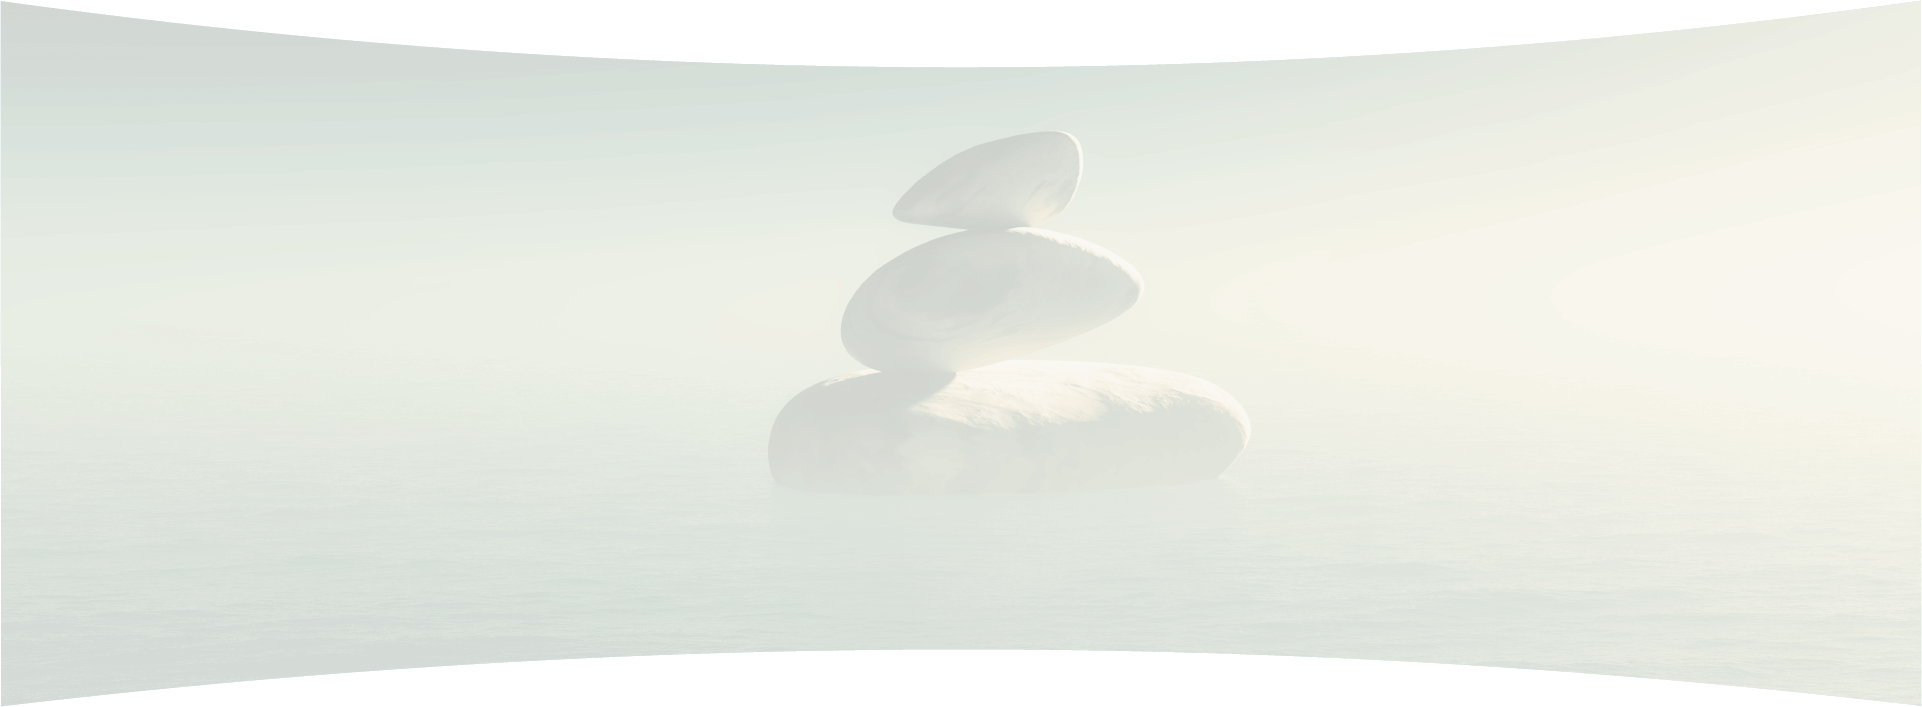
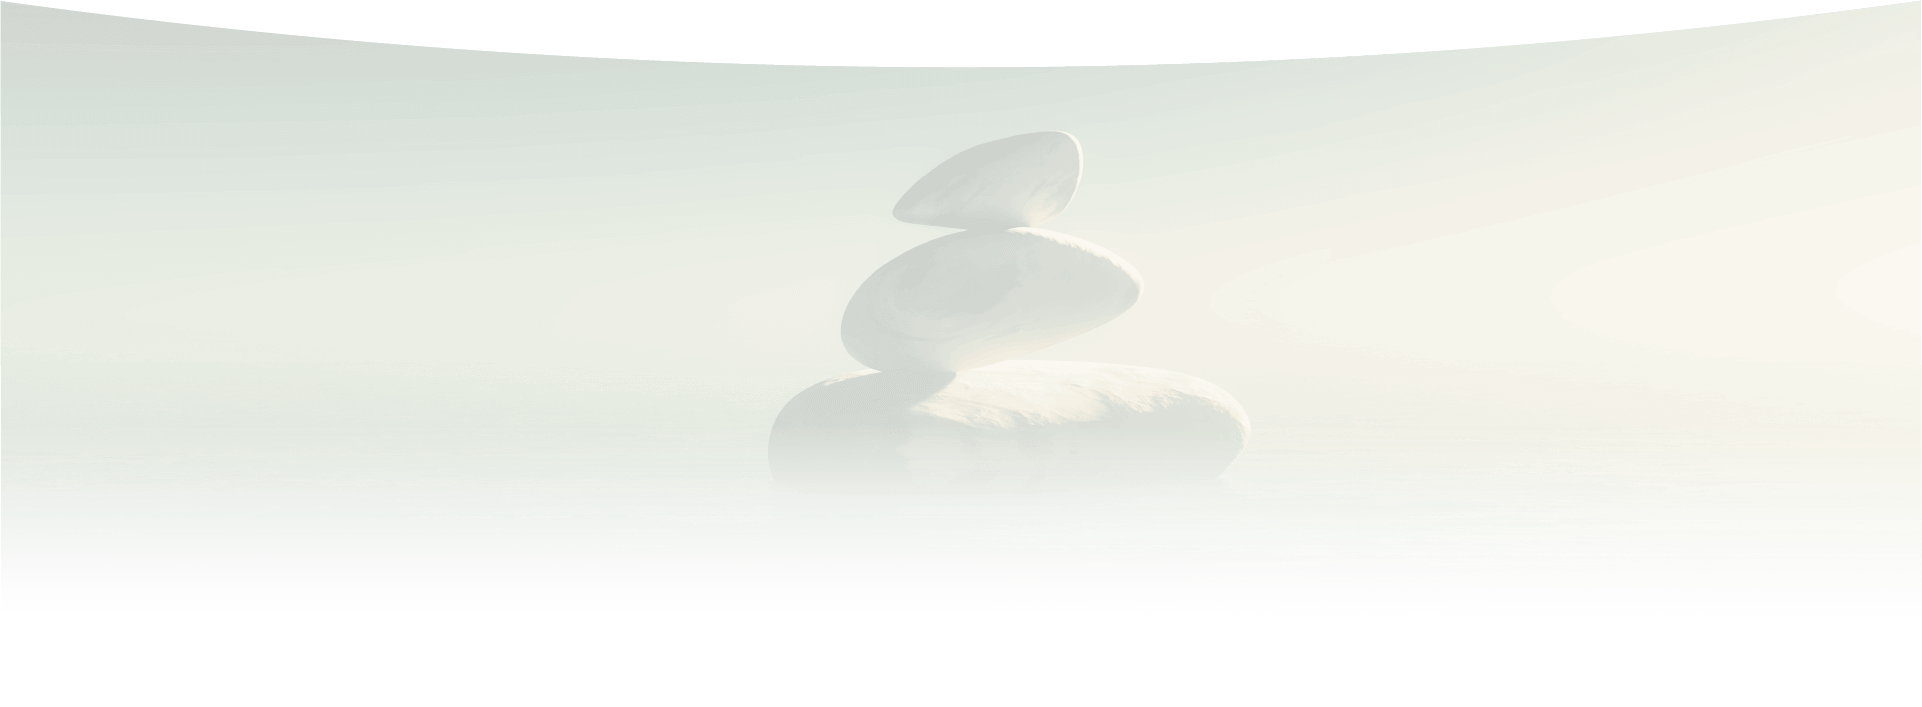
cambios img

Changed region(s): [[0.0, 0.7468, 1.0, 1.0]]

diff --git a/css/proyeccion/index.css b/css/proyeccion/index.css
@@ -37,7 +37,7 @@
 .bg-social {
   background: url(../../images/compromiso/bg.png) no-repeat top;
   background-size: cover;
-  height: 83vh;
+  height: 81vh;
 }
 
 .grid-comemnt {

diff --git a/css/servicios/index.css b/css/servicios/index.css
@@ -8,7 +8,7 @@
   max-width: 1024px;
   margin: auto;
   text-align: center;
-  padding-top: 3em;
+  padding-top: 7em;
 }
 
 .content-service-item p {

diff --git a/plantillas/footer-contact.php b/plantillas/footer-contact.php
@@ -25,7 +25,9 @@
                     <a href="https://www.instagram.com/cirugiaesteticafong/" target="_blank">
                         <img src="<?php echo RUTA_IMG?>footer/ig.png" draggable="false" />
                     </a>
-                    <img src="<?php echo RUTA_IMG?>footer/email.png" draggable="false" />
+                    <a href="mailto:hola@esteticafong.com" target="_parent">
+                        <img src="<?php echo RUTA_IMG?>footer/email.png" draggable="false" />
+                    </a>
                 </div>
                 <!-- <div>
                     <input type="text">

diff --git a/plantillas/footer-media.php b/plantillas/footer-media.php
@@ -25,7 +25,9 @@
                     <a href="https://www.instagram.com/cirugiaesteticafong/" target="_blank">
                         <img src="<?php echo RUTA_IMG?>footer/ig.png" draggable="false" />
                     </a>
-                    <img src="<?php echo RUTA_IMG?>footer/email.png" draggable="false" />
+                    <a href="mailto:hola@esteticafong.com" target="_parent">
+                        <img src="<?php echo RUTA_IMG?>footer/email.png" draggable="false" />
+                    </a>
                 </div>
                 <!-- <div>
                     <input type="text">

diff --git a/plantillas/footer-service.php b/plantillas/footer-service.php
@@ -25,7 +25,9 @@
                     <a href="https://www.instagram.com/cirugiaesteticafong/" target="_blank">
                         <img src="<?php echo RUTA_IMG?>footer/ig.png" draggable="false" />
                     </a>
-                    <img src="<?php echo RUTA_IMG?>footer/email.png" draggable="false" />
+                    <a href="mailto:hola@esteticafong.com" target="_parent">
+                        <img src="<?php echo RUTA_IMG?>footer/email.png" draggable="false" />
+                    </a>
                 </div>
                 <!-- <div>
                     <input type="text">

diff --git a/plantillas/footer.php b/plantillas/footer.php
@@ -25,7 +25,9 @@
                     <a href="https://www.instagram.com/cirugiaesteticafong/" target="_blank">
                         <img src="<?php echo RUTA_IMG?>footer/ig.png" draggable="false" />
                     </a>
-                    <img src="<?php echo RUTA_IMG?>footer/email.png" draggable="false" />
+                    <a href="mailto:hola@esteticafong.com" target="_parent">
+                        <img src="<?php echo RUTA_IMG?>footer/email.png" draggable="false" />
+                    </a>
                 </div>
                 <!-- <div>
                     <input type="text">
